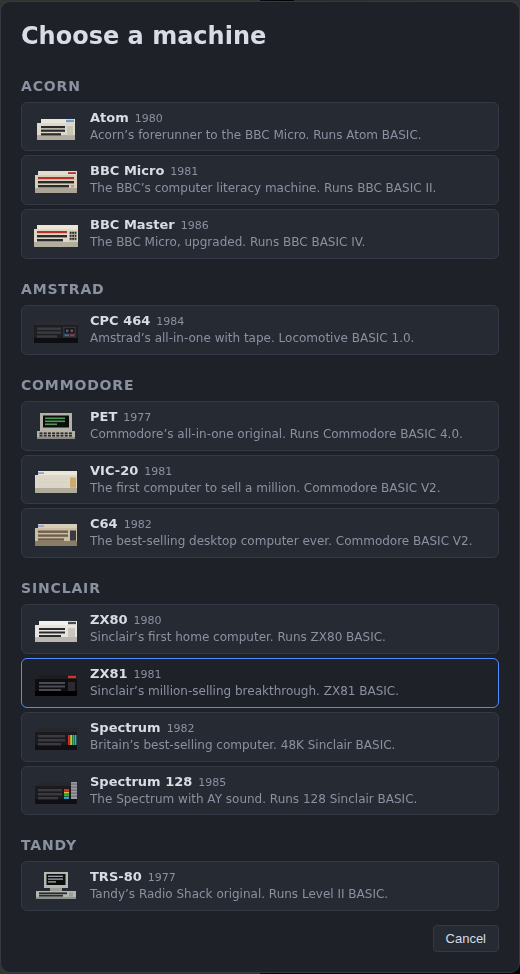
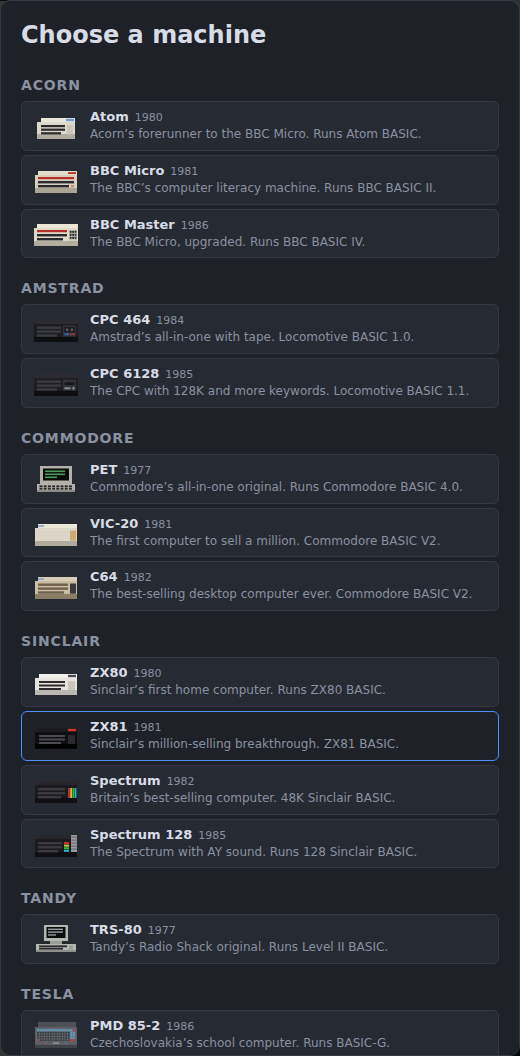
feat: redraw the PMD 85 portrait from the real machine
The old portrait guessed at a grey-beige case with an amber function row,
borrowed from the virtual keyboard's theme. The Tesla PMD 85-2A is a dark
graphite wedge, and its recognisable feature is the colour edging on the
keyboard: a pale blue K0-K11 strip across the top, a second blue strip down
the right of the grid, and red caps closing both ends of that run (RST at
the top corner, the left shift and STOP/EOL along the bottom).

Redraws it accordingly - graphite case, louvred cassette deck, keys set into
a lighter grey plate, and the space bar on the case below the plate between
its two indicator lamps. The two accent colours come from the hardware
rather than VirtualKeyboard.css, which is noted where the palette says the
two surfaces otherwise agree.

Regenerates docs/public/machine-picker.png, which shows the icon.

Claude-Session: https://claude.ai/code/session_01BnWF4Hp3FBVTeDxP3EpvGq

Changed region(s): [[0.0308, 0.0, 0.9538, 1.0], [0.8615, 0.9548, 0.9231, 0.9856], [0.9538, 0.9856, 0.9846, 1.0]]

diff --git a/src/components/machineArt.tsx b/src/components/machineArt.tsx
@@ -63,8 +63,13 @@ const ALTAIR_CASE = '#3c4757'; // VirtualKeyboard.css .vk-theme-altair8800
 const ALTAIR_LED = '#e05a3c';
 const ALTAIR_SWITCH = '#b9bcc2';
 const TRS_SILVER = '#9aa0a6'; // VirtualKeyboard.css .vk-theme-trs80
-const PMD_FN = '#8a5a2c'; // VirtualKeyboard.css .vk-theme-pmd85 .vk-style-fn
 const PMD_KEYS = '#363a41'; // VirtualKeyboard.css .vk-theme-pmd85 .vk-style-shift
+/* The PMD's two accent keycaps are the exception to the reuse rule above: the
+   virtual keyboard tints its function row amber, but the machine's own K0-K11
+   caps are pale blue and its RST/STOP/EOL caps are red, and those two colours
+   are the whole point of this portrait. Taken from the hardware, not the CSS. */
+const PMD_BLUE = '#5f9fc4';
+const PMD_RED = '#c0362c';
 const CPC_BLUE = '#2f6fb0'; // VirtualKeyboard.css .vk-theme-cpc464
 const CPC_GREY = '#8d9299'; // VirtualKeyboard.css .vk-theme-cpc6128
 
@@ -83,7 +88,9 @@ const VIC_CASE = '#dcd8c8';
 const PET_CASE = '#b3b1a8';
 const TRS_CASE = '#b4b6b1';
 const CPC_CASE = '#1e1e22';
-const PMD_CASE = '#b9b4a6';
+const PMD_CASE = '#5a5e64';
+const PMD_DECK = '#4e5258';
+const PMD_PANEL = '#6b6f76';
 const SCREEN_BLACK = '#0b0d0a';
 
 /** Darken-by-a-notch used for the shadowed base each case sits on. */
@@ -100,7 +107,7 @@ const BASE = {
   trs: '#8e908c',
   cpc: '#0e0e10',
   altair: '#20262f',
-  pmd: '#948f83',
+  pmd: '#3f4247',
 };
 
 /* ---------------------------------------------------------------------------
@@ -474,40 +481,58 @@ function Altair8800Art({ size }: ArtProps) {
    Tesla */
 
 /**
- * PMD 85-2: a grey-beige wedge that is almost all keyboard. Its silhouette tell
- * is the grid - fifteen columns of small square keys, uniform all the way down,
- * with the K0-K11 function row picked out above them.
+ * Key fill by grid position, row 0 being the K0-K11 function strip. Blue runs
+ * along the top and down the last two columns; red closes both ends of that
+ * run - RST at the top right, the left shift and STOP/EOL along the bottom.
+ */
+function pmdKeyFill(r: number, c: number) {
+  if (r === 0) return c === 14 ? PMD_RED : PMD_BLUE;
+  if (r === 4) return c === 0 || c >= 13 ? PMD_RED : PMD_KEYS;
+  return c >= 13 ? PMD_BLUE : PMD_KEYS;
+}
+
+/**
+ * PMD 85-2A: a dark graphite wedge that is almost all keyboard, its grid of
+ * fifteen small square keys set into a lighter grey plate. The silhouette tell
+ * is the colour edging - a blue function strip across the top and a second one
+ * down the right of the grid, both capped in red - over the louvred cassette
+ * deck, with the space bar sitting on the case below the plate between its two
+ * indicator lamps.
  */
 function Pmd85Art({ size }: ArtProps) {
   return (
     <svg {...artProps(size)}>
-      <path d="M3 25h42v4H3z" fill={BASE.pmd} />
-      <path d="M3 9h42v16H3z" fill={PMD_CASE} />
-      <path d="M6 5h39v4H6z" fill="#a8a396" />
-      {/* The function-key row, the one band that is not the key grid. */}
-      {Array.from({ length: 12 }, (_, c) => (
+      <path d="M3 26h42v3H3z" fill={BASE.pmd} />
+      <path d="M3 8h42v18H3z" fill={PMD_CASE} />
+      <path d="M6 3h38v5H6z" fill={PMD_DECK} />
+      {/* Vent slats over the cassette deck. */}
+      {[0, 1, 2].map((i) => (
         <rect
-          key={`fn${c}`}
-          x={5.5 + c * 2.7}
-          y="10.5"
-          width="2"
-          height="2"
-          fill={PMD_FN}
+          key={`v${i}`}
+          x="8"
+          y={4.2 + i * 1.1}
+          width="17"
+          height="0.5"
+          fill="#46494e"
         />
       ))}
-      {/* Four rows of fifteen, drawn as a grid because that is what it is. */}
-      {Array.from({ length: 4 }, (_, r) =>
+      <rect x="4.4" y="9.4" width="39.2" height="13.2" fill={PMD_PANEL} />
+      {/* Five rows of fifteen, drawn as a grid because that is what it is. */}
+      {Array.from({ length: 5 }, (_, r) =>
         Array.from({ length: 15 }, (_, c) => (
           <rect
             key={`k${r}-${c}`}
-            x={5.5 + c * 2.7}
-            y={13.8 + r * 2.7}
-            width="2"
-            height="2"
-            fill={PMD_KEYS}
+            x={5.2 + c * 2.55}
+            y={10.3 + r * 2.5}
+            width="1.9"
+            height="1.9"
+            fill={pmdKeyFill(r, c)}
           />
         )),
       )}
+      <rect x="20.5" y="23.4" width="7" height="1.5" fill="#8d9198" />
+      <circle cx="14" cy="24.1" r="0.7" fill="#d4802b" />
+      <circle cx="34" cy="24.1" r="0.7" fill="#4fae55" />
     </svg>
   );
 }
